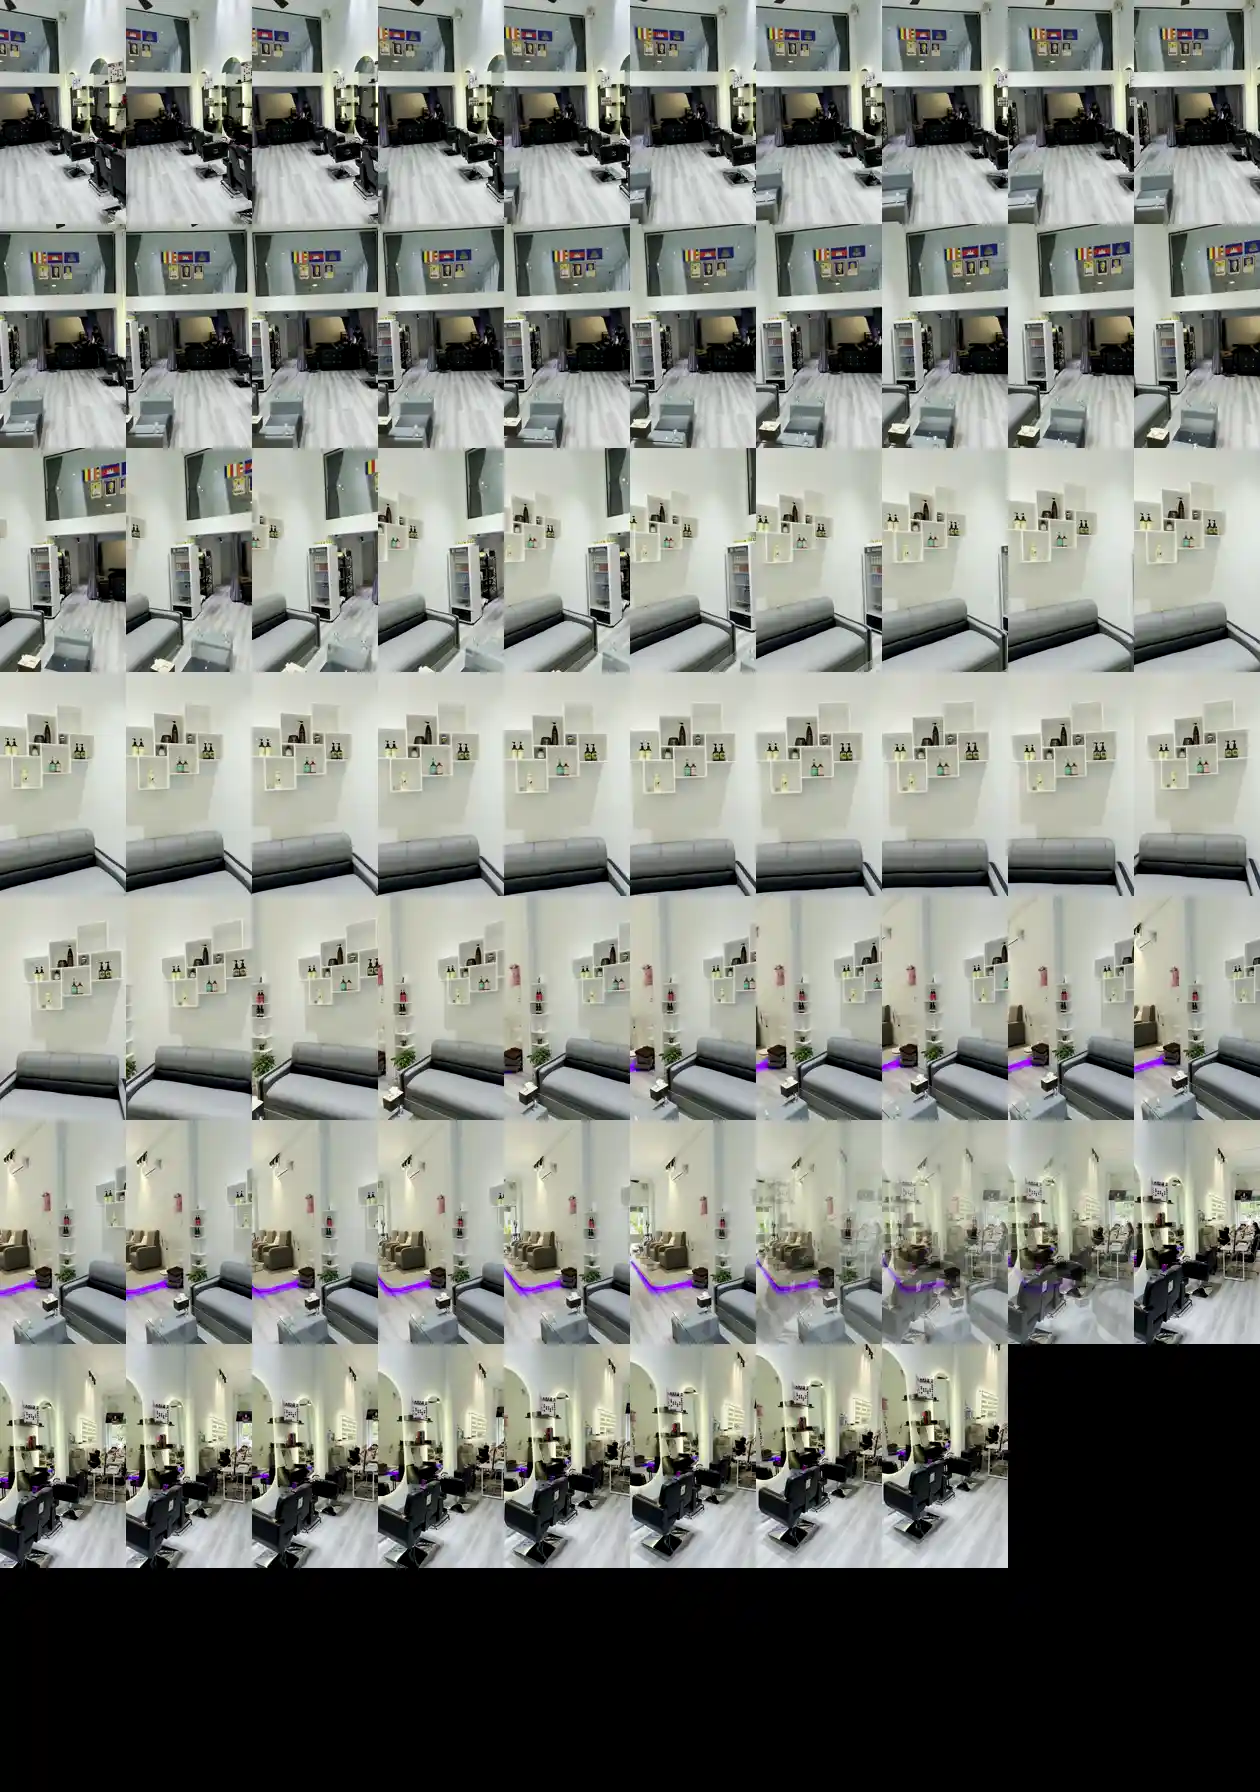
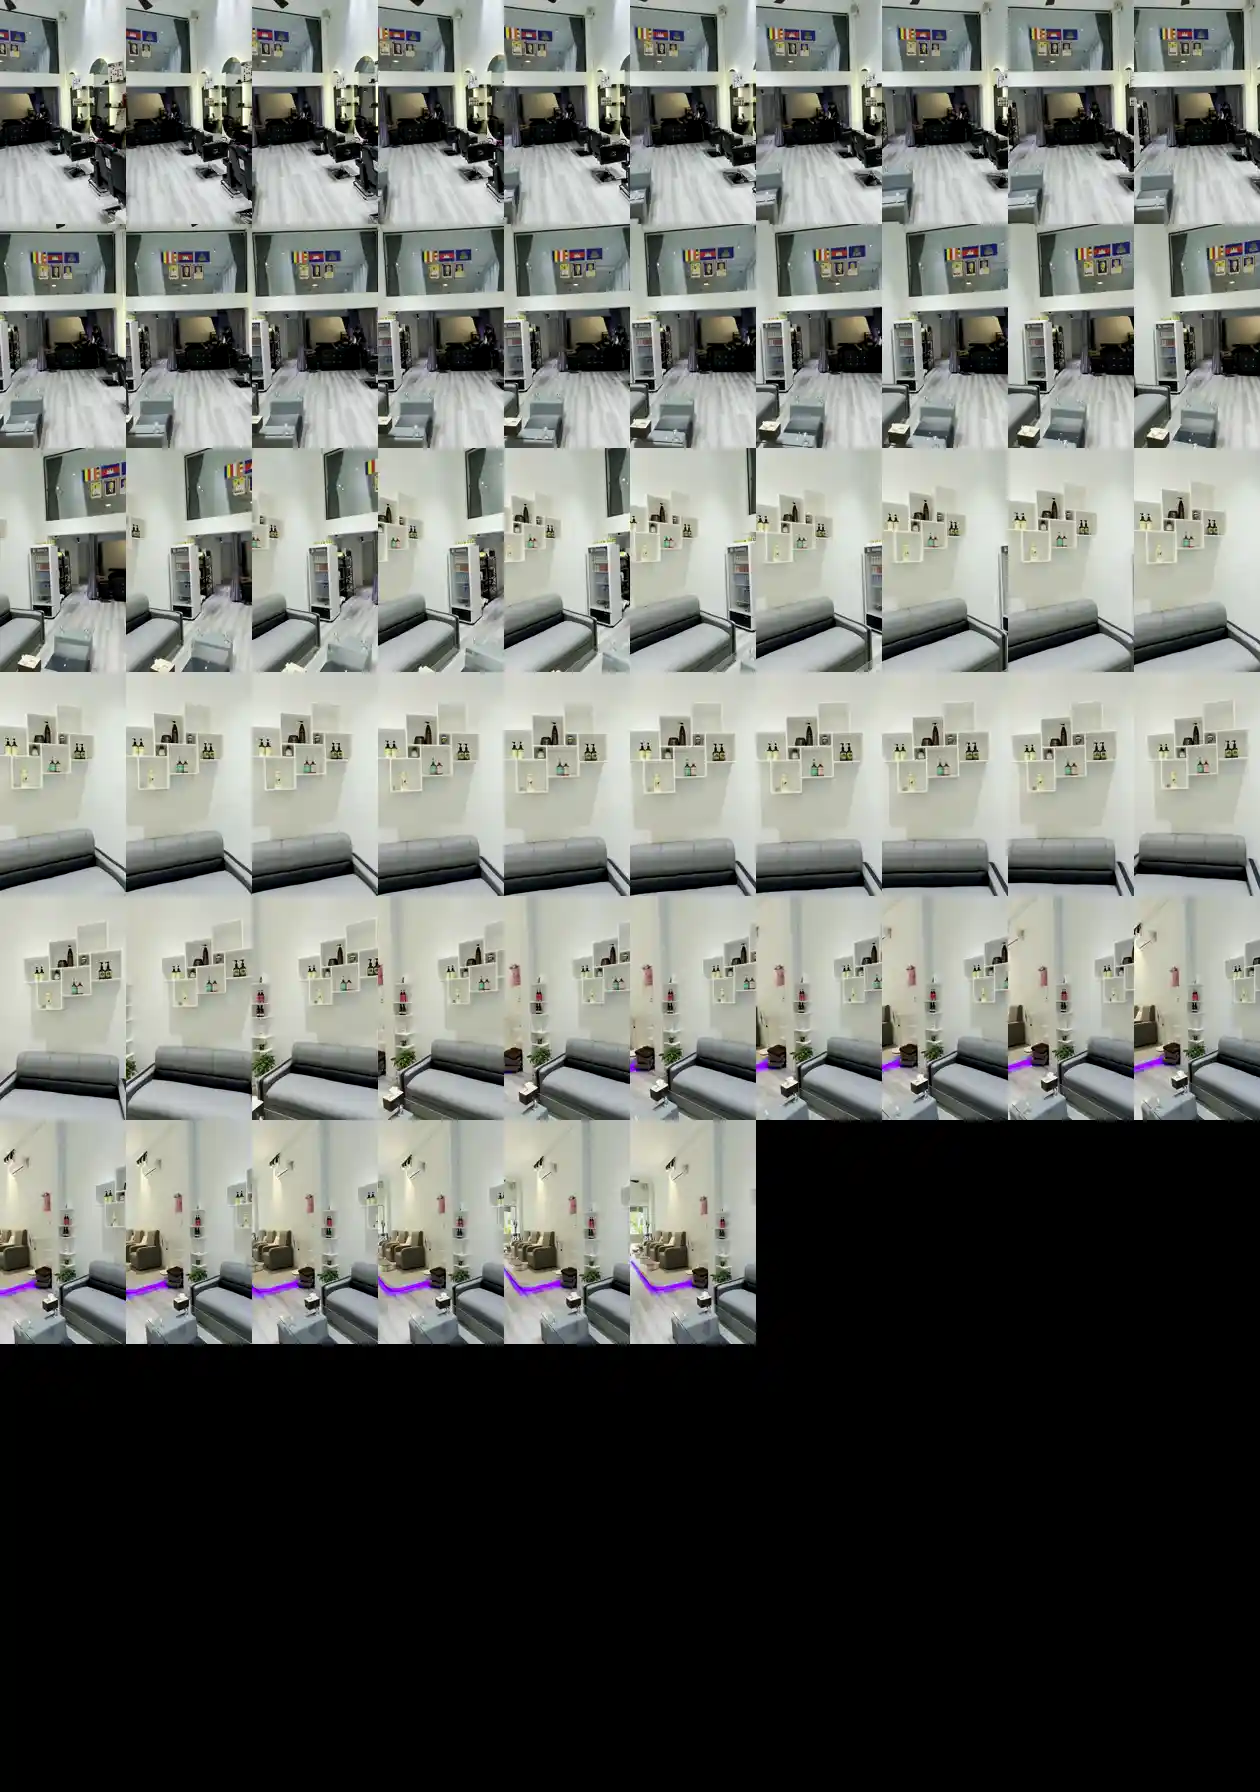
Phone film ends at the pedicure seats; frame URLs versioned
- Phone film stops at frame 296 (pedicure lounge), before the camera turns to
  the entrance; phone-specific chapter timing for the shorter film
- Frames, contact sheets and poster load with ?v=4 so phones fetch the new
  pictures instead of week-old cached ones
- The closing chapter no longer fades out at the very end of the scroll

Claude-Session: https://claude.ai/code/session_018Qh8ybcSyDewCJyDi5fqeF

Changed region(s): [[0.0, 0.625, 1.0, 0.875]]

diff --git a/index.html b/index.html
@@ -18,10 +18,10 @@
     <link rel="preconnect" href="https://fonts.googleapis.com">
     <link rel="preconnect" href="https://fonts.gstatic.com" crossorigin>
     <link href="https://fonts.googleapis.com/css2?family=Allura&family=Bodoni+Moda:ital,opsz,wght@0,6..96,400..600;1,6..96,400&family=Inter:wght@400;500;600;700&family=Kantumruy+Pro:wght@400;600;700&family=Playfair+Display:ital,wght@0,400;0,500;1,400&display=swap" rel="stylesheet">
-    <link rel="preload" as="image" href="images/film/f001.webp" media="(max-aspect-ratio: 1/1), (max-width: 767px)">
-    <link rel="preload" as="image" href="images/film/lo-0.webp" media="(max-aspect-ratio: 1/1), (max-width: 767px)">
-    <link rel="preload" as="image" href="images/film-wide/f001.webp" media="(min-aspect-ratio: 1/1) and (min-width: 768px)">
-    <link rel="preload" as="image" href="images/film-wide/lo-0.webp" media="(min-aspect-ratio: 1/1) and (min-width: 768px)">
+    <link rel="preload" as="image" href="images/film/f001.webp?v=4" media="(max-aspect-ratio: 1/1), (max-width: 767px)">
+    <link rel="preload" as="image" href="images/film/lo-0.webp?v=4" media="(max-aspect-ratio: 1/1), (max-width: 767px)">
+    <link rel="preload" as="image" href="images/film-wide/f001.webp?v=4" media="(min-aspect-ratio: 1/1) and (min-width: 768px)">
+    <link rel="preload" as="image" href="images/film-wide/lo-0.webp?v=4" media="(min-aspect-ratio: 1/1) and (min-width: 768px)">
     <script src="https://cdn.tailwindcss.com"></script>
 
     <!-- Local-business details for Google. Every value here is the salon's own:
@@ -719,8 +719,8 @@
         <section id="top" class="film" aria-label="Walk into LocalNail Salon">
             <div class="film-stage" id="filmStage">
                 <picture>
-                    <source media="(min-aspect-ratio: 1/1) and (min-width: 768px)" srcset="images/film-wide/f001.webp" width="1600" height="900">
-                    <img class="film-poster" id="filmPoster" src="images/film/f001.webp" width="720" height="1280" fetchpriority="high"
+                    <source media="(min-aspect-ratio: 1/1) and (min-width: 768px)" srcset="images/film-wide/f001.webp?v=4" width="1600" height="900">
+                    <img class="film-poster" id="filmPoster" src="images/film/f001.webp?v=4" width="720" height="1280" fetchpriority="high"
                      alt="The LocalNail Salon storefront on Thnou Street, seen from the pavement">
                 </picture>
                 <canvas id="filmCanvas" aria-hidden="true"></canvas>
@@ -731,27 +731,27 @@
                     <span data-i18n="film.place">Siem Reap &middot; 10 AM &ndash; 10 PM</span>
                 </div>
 
-                <div class="chapter" data-from="0" data-to="0.11">
+                <div class="chapter" data-from="0" data-to="0.11" data-mfrom="0" data-mto="0.12">
                     <p class="eyebrow" data-i18n="film.e1">Nails &middot; Beauty &middot; Self Care</p>
                     <h1 class="display" data-i18n="film.t1">Polished<br><span class="acc">to perfection.</span></h1>
                 </div>
-                <div class="chapter" data-from="0.13" data-to="0.23">
+                <div class="chapter" data-from="0.13" data-to="0.23" data-mfrom="0.145" data-mto="0.255">
                     <p class="eyebrow" data-i18n="film.e2">02 &mdash; Step in</p>
                     <h2 class="display" data-i18n="film.t2">Come in,<br><span class="acc">get pampered.</span></h2>
                 </div>
-                <div class="chapter" data-from="0.27" data-to="0.38">
+                <div class="chapter" data-from="0.27" data-to="0.38" data-mfrom="0.30" data-mto="0.42">
                     <p class="eyebrow" data-i18n="film.e3">03 &mdash; Pedicure spa</p>
                     <h2 class="display" data-i18n="film.t3">Soak, scrub<br><span class="acc">&amp; relax.</span></h2>
                 </div>
-                <div class="chapter" data-from="0.41" data-to="0.52">
+                <div class="chapter" data-from="0.41" data-to="0.52" data-mfrom="0.455" data-mto="0.58">
                     <p class="eyebrow" data-i18n="film.e4">04 &mdash; Manicure bar</p>
                     <h2 class="display" data-i18n="film.t4">Gel, chrome<br><span class="acc">&amp; nail art.</span></h2>
                 </div>
-                <div class="chapter" data-from="0.56" data-to="0.70">
+                <div class="chapter" data-from="0.56" data-to="0.70" data-mfrom="0.62" data-mto="0.78">
                     <p class="eyebrow" data-i18n="film.e5h">05 &mdash; Hair studio</p>
                     <h2 class="display" data-i18n="film.t5h">Wash, spa<br><span class="acc">&amp; blow-dry.</span></h2>
                 </div>
-                <div class="chapter" data-from="0.78" data-to="1.01">
+                <div class="chapter" data-from="0.78" data-to="1.01" data-mfrom="0.84" data-mto="1.01">
                     <p class="eyebrow" data-i18n="film.e5">06 &mdash; Your moment</p>
                     <h2 class="display" data-i18n="film.t5">Treat yourself.<br><span class="acc">You deserve it.</span></h2>
                     <div class="actions">
@@ -1345,7 +1345,8 @@
             var canvas = document.getElementById('filmCanvas');
             var ctx = canvas.getContext('2d', { alpha: false });
             var chapters = [].slice.call(section.querySelectorAll('.chapter')).map(function (el) {
-                return { el: el, a: parseFloat(el.dataset.from), b: parseFloat(el.dataset.to), o: -1, y: 0 };
+                var phone = !window.matchMedia('(min-aspect-ratio: 1/1) and (min-width: 768px)').matches;
+                return { el: el, a: parseFloat(phone ? el.dataset.mfrom : el.dataset.from), b: parseFloat(phone ? el.dataset.mto : el.dataset.to), o: -1, y: 0 };
             });
             var hint = document.getElementById('filmHint');
             var bar = document.getElementById('filmBar');
@@ -1354,7 +1355,9 @@
             // phones get the portrait walk-in, wide screens the landscape one
             var WIDE = window.matchMedia('(min-aspect-ratio: 1/1) and (min-width: 768px)').matches;
             var DIR = WIDE ? 'images/film-wide/' : 'images/film/';
-            var N = WIDE ? 310 : 308;
+            var N = WIDE ? 310 : 296;
+            // bump FILM_V whenever the frames change, so phones never reuse old cached pictures
+            var FILM_V = '?v=4';
             var FOCUS_Y = 0.5;
 
             if (reduceMotion.matches) { section.classList.add('is-static'); return; }
@@ -1370,7 +1373,7 @@
             var TW = 0, TH = 0;
             function loadSheet(k) {
                 var img = new Image();
-                img.src = DIR + 'lo-' + k + '.webp';
+                img.src = DIR + 'lo-' + k + '.webp' + FILM_V;
                 var ok = function (bmp) { sheets[k] = bmp; sheetReady[k] = true; dirty = true; kick(); };
                 (img.decode ? img.decode() : new Promise(function (r) { img.onload = r; }))
                     .then(function () {
@@ -1383,7 +1386,7 @@
 
             var hi = new Array(N), hiLoaded = new Array(N), hiRequested = new Array(N);
             var bmp = new Map(), decoding = 0, active = 0;
-            function src(i) { return DIR + 'f' + ('00' + (i + 1)).slice(-3) + '.webp'; }
+            function src(i) { return DIR + 'f' + ('00' + (i + 1)).slice(-3) + '.webp' + FILM_V; }
             function pump() {
                 var start = Math.max(0, Math.floor(cur * (N - 1)) - 4);
                 while (active < 4) {
@@ -1477,7 +1480,7 @@
                 var chap = 0;
                 chapters.forEach(function (c, k) {
                     var fin = k === 0 ? 1 : ramp(cur, c.a, c.a + 0.035);
-                    var fout = 1 - ramp(cur, c.b - 0.035, c.b);
+                    var fout = k === chapters.length - 1 ? 1 : 1 - ramp(cur, c.b - 0.035, c.b);   // the closing words stay
                     var o = Math.round(Math.min(fin, fout) * 100) / 100;
                     var y = Math.round((cur < (c.a + c.b) / 2 ? (1 - fin) * 26 : -(1 - fout) * 26) * 2) / 2;
                     if (o !== c.o || y !== c.y) {
